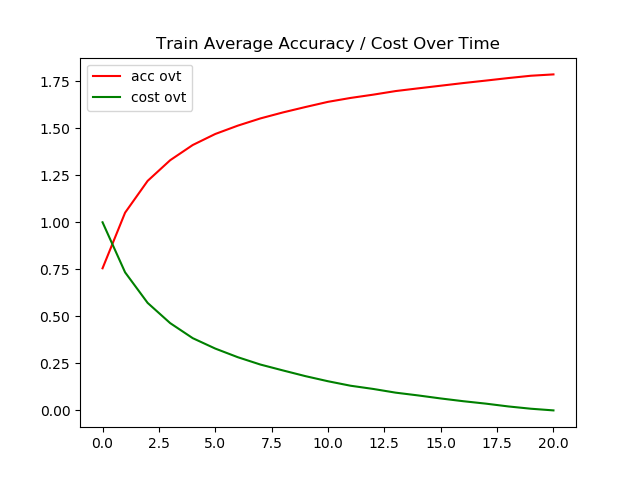
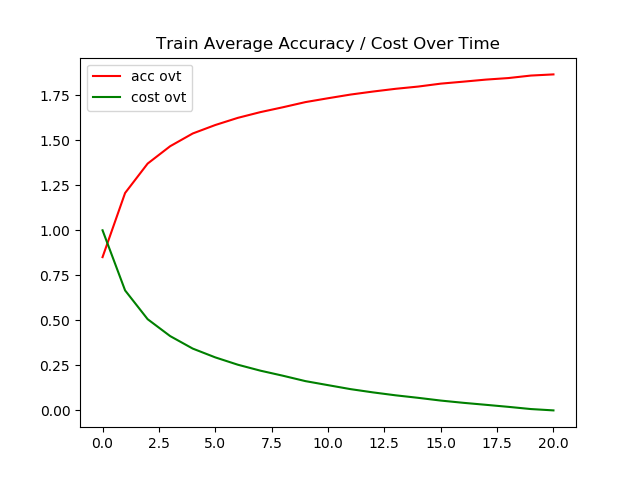
'mixbig'

diff --git a/NeuralNetwork/selective/second/n_correct_back.py b/NeuralNetwork/selective/second/n_correct_back.py
@@ -232,7 +232,7 @@ correct_prediction = tf.equal(tf.argmax(final_soft, 1), tf.argmax(y, 1))
 accuracy = tf.reduce_mean(tf.cast(correct_prediction, tf.float32))
 
 
-# # ===== manual ====
+# # ===== manual ==== HAVE TO FINISH 
 grad_prepare = tf.reshape(final_soft-y,[batch_size,1,1,10])
 
 grad10,grad10_up = l10.backprop(grad_prepare,learning_rate_change=learning_rate_change,batch_size_dynamic=batch_size_dynamic,padding='VALID',awsgrad=True,reg=True)
@@ -240,14 +240,14 @@ grad10,grad10_up = l10.backprop(grad_prepare,learning_rate_change=learning_rate_
 grad9,grad9_up = l9.backprop(grad10,learning_rate_change=learning_rate_change,batch_size_dynamic=batch_size_dynamic,padding='VALID',awsgrad=True)
 grad8_Div = grad9.shape[3]//2
 grad8_Div2 = grad9.shape[3]//4
-grad8,grad8_up = l8.backprop(grad9[:,:,:,:grad8_Div]+grad9[:,:,:,grad8_Div:],
+grad8,grad8_up = l8.backprop(grad9[:,:,:,:grad8_Div],
 learning_rate_change=learning_rate_change,batch_size_dynamic=batch_size_dynamic,padding='VALID',adam=True,reg=True)
 grad7_Div = grad8.shape[3]//2
-grad7,grad7_up = l7.backprop(grad8[:,:,:,:grad7_Div]+grad8[:,:,:,grad7_Div:] + \
+grad7,grad7_up = l7.backprop(grad9[:,:,:,grad8_Div:grad8_Div2]  + grad8[:,:,:,:grad7_Div] + \
 decay_dilated_rate * (grad9[:,:,:,:grad8_Div2]+grad9[:,:,:,grad8_Div2:grad8_Div2*2]+grad9[:,:,:,grad8_Div2*2:grad8_Div2*3]+grad9[:,:,:,grad8_Div2*3:] ) ,
 learning_rate_change=learning_rate_change,batch_size_dynamic=batch_size_dynamic,awsgrad=True)
 
-grad6_Input = tf_repeat(grad7,[1,2,2,1])
+grad6_Input = tf_repeat(grad9[:,:,:,grad8_Div+grad8_Div2:] + grad7,[1,2,2,1])
 grad6,grad6_up = l6.backprop(grad6_Input,learning_rate_change=learning_rate_change,batch_size_dynamic=batch_size_dynamic,adam=True,reg=True)
 grad5_Div = grad6.shape[3]//2
 grad5_Div2 = grad6.shape[3]//4

diff --git a/NeuralNetwork/selective/second/m_more.py b/NeuralNetwork/selective/second/m_more.py
@@ -155,7 +155,7 @@ print(test_label.shape)
 
 # hyper parameter
 num_epoch = 21  
-batch_size = 50
+batch_size = 32
 print_size = 1
 beta1,beta2,adam_e = 0.9,0.9,1e-9
 decouple_weight   = 1
